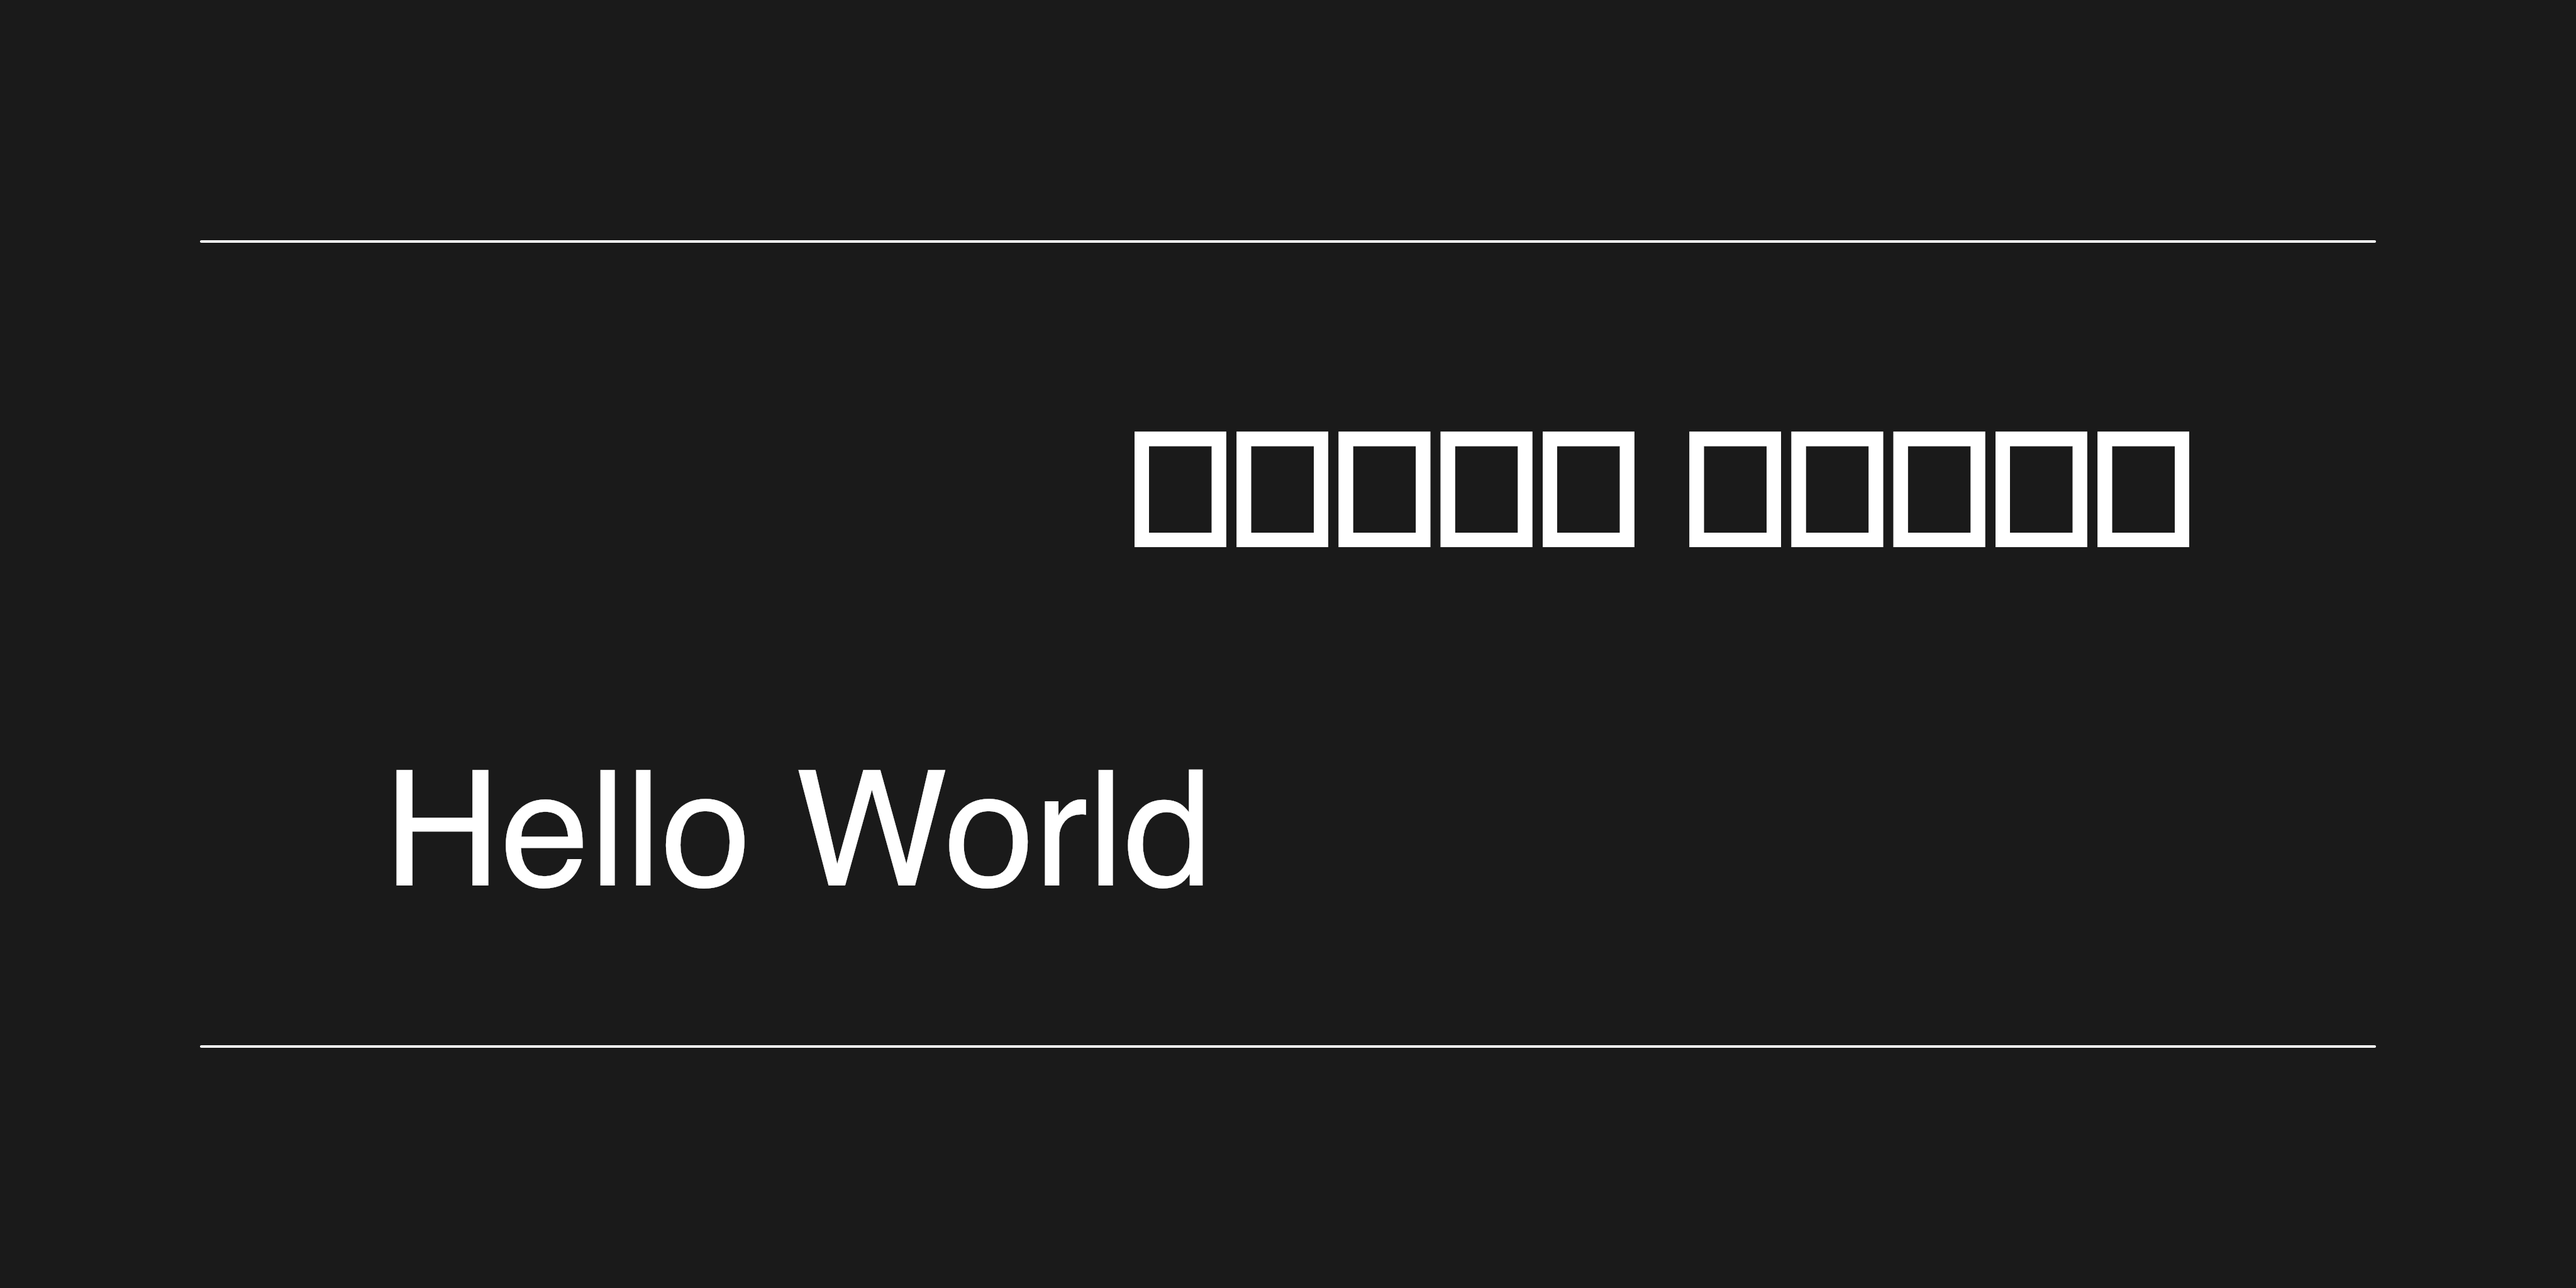
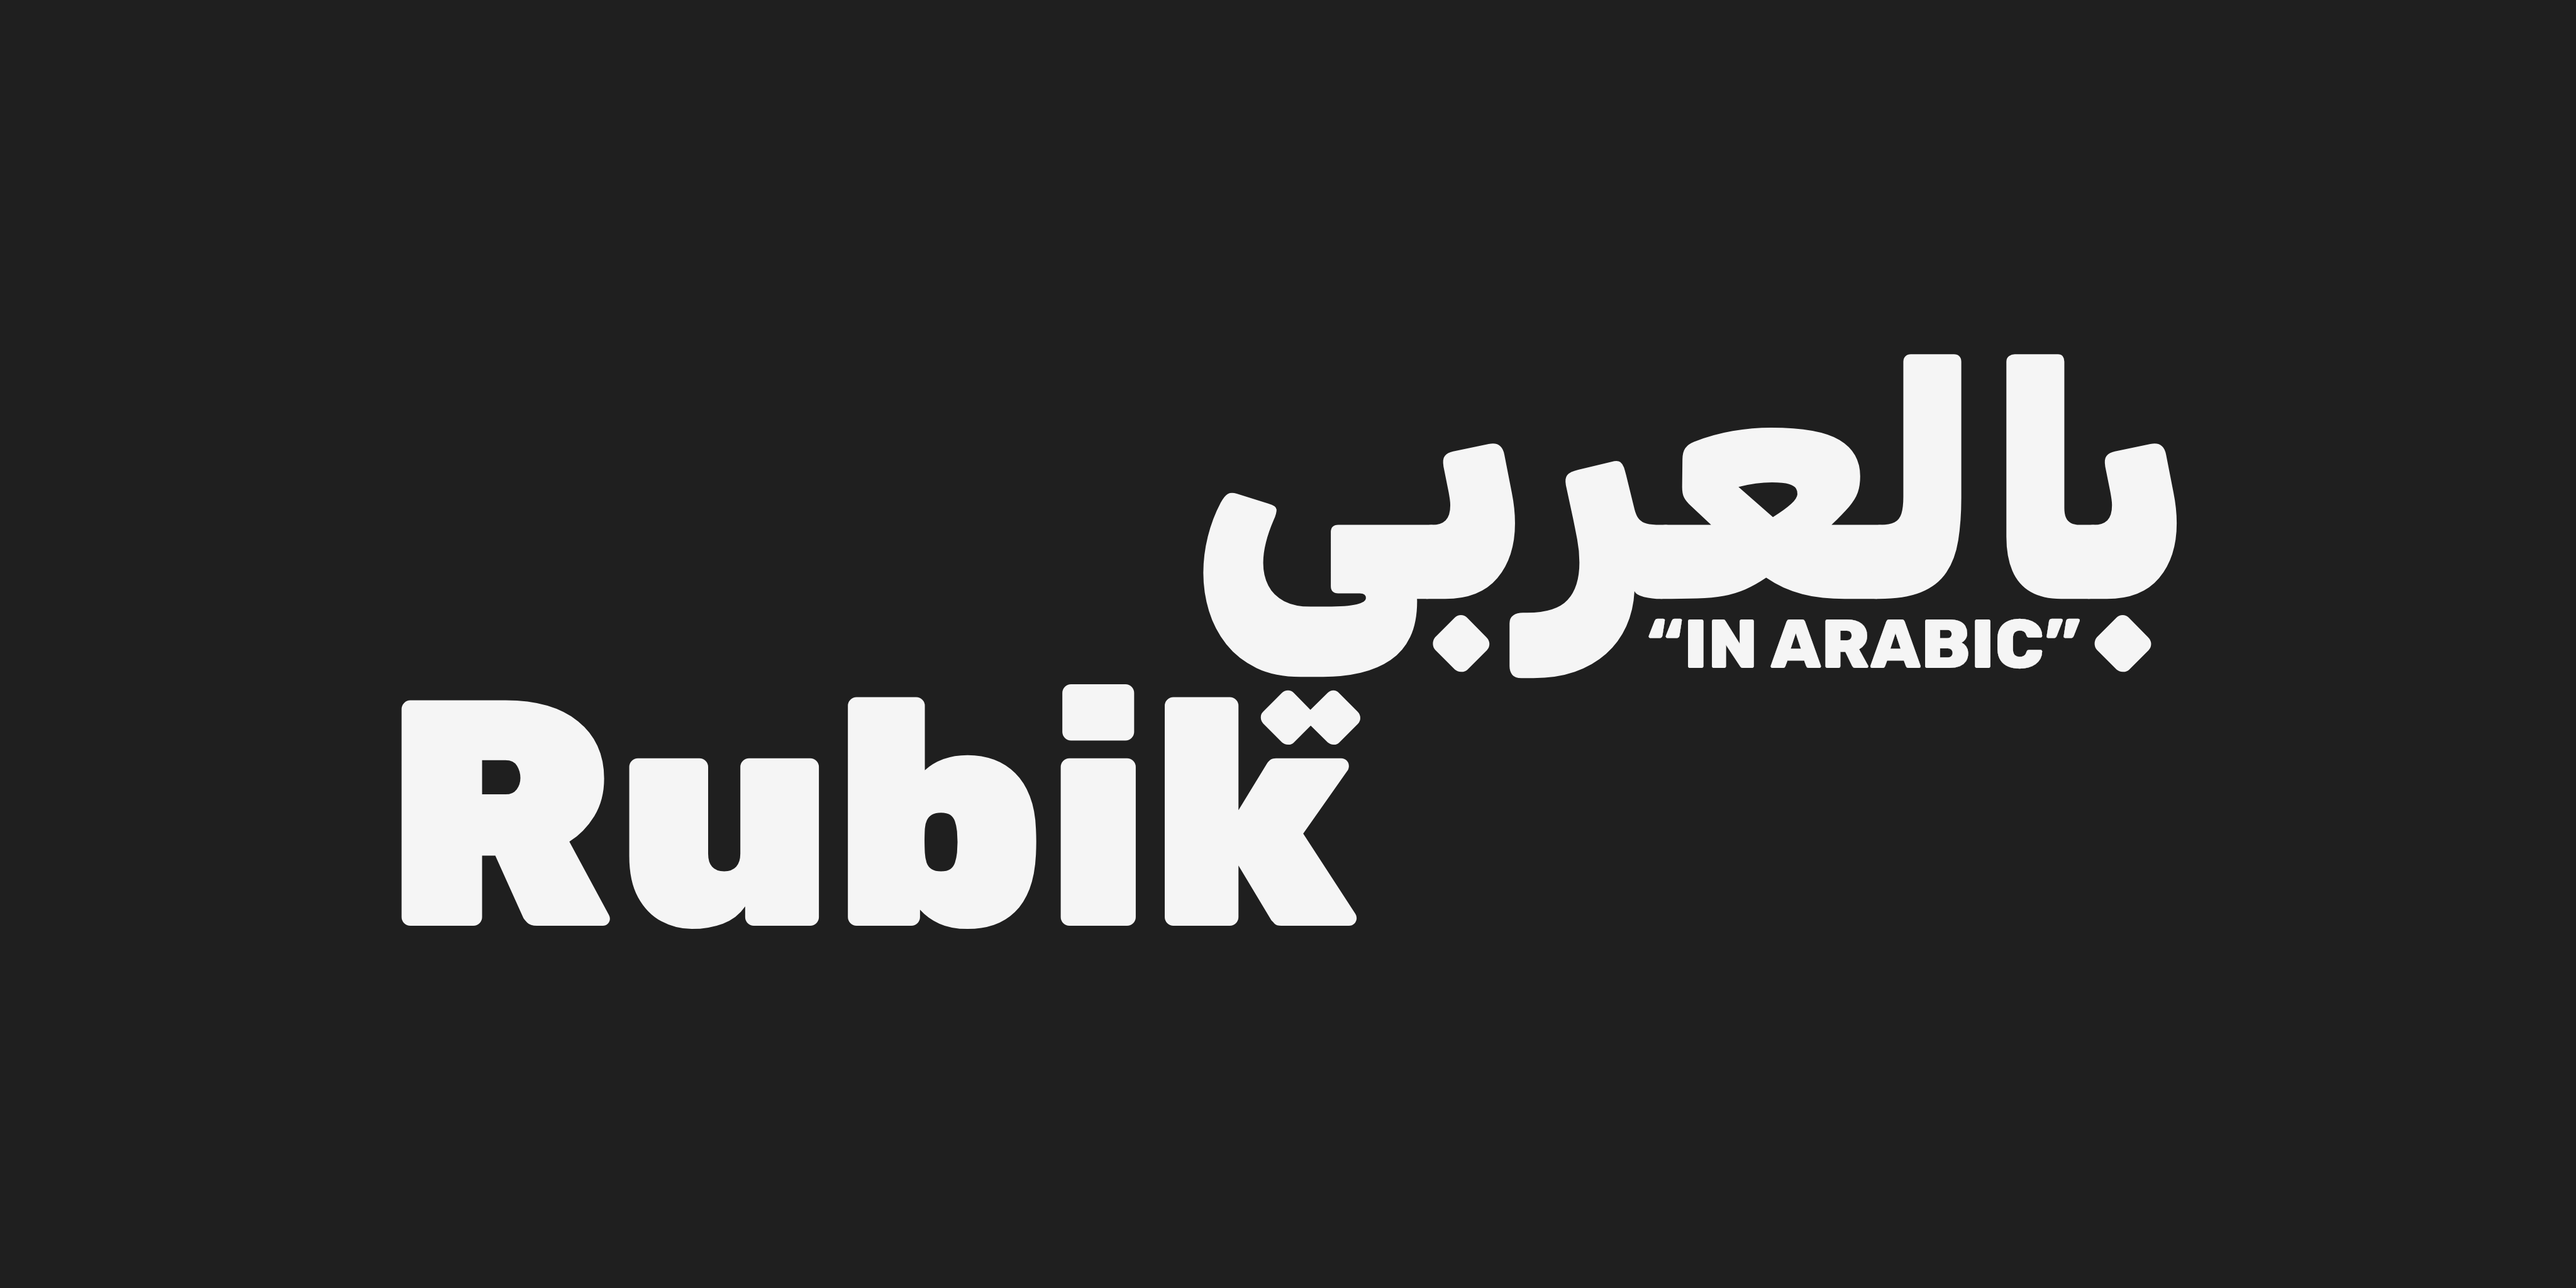
Update Rubik 001

Changed region(s): [[0.1562, 0.25, 0.875, 0.7188]]

diff --git a/documentation/rubik-001.py b/documentation/rubik-001.py
@@ -1,13 +1,9 @@
 # This script is meant to be run from the root level
 # of your font's git repository. For example, from a Unix terminal:
-# $ git clone my-font
-# $ cd my-font
-# $ python3 documentation/image1.py --output documentation/image1.png
+# $ python3 documentation/drawbot/image1.py --output documentation/drawbot/image1.png
 
 # Import moduels from external python packages: https://pypi.org/
 from drawbot_skia.drawbot import *
-from fontTools.ttLib import TTFont
-from fontTools.misc.fixedTools import floatToFixedToStr
 
 # Import moduels from the Python Standard Library: https://docs.python.org/3/library/
 import subprocess
@@ -15,16 +11,10 @@ import sys
 import argparse
 
 # Constants, these are the main "settings" for the image
-WIDTH, HEIGHT, MARGIN, FRAMES = 2048, 2048, 128, 1
-FONT_PATH = "fonts/ttf/Rubik-Regular.ttf"
-FONT_LICENSE = "OFL v1.1"
-AUXILIARY_FONT = "Helvetica"
-AUXILIARY_FONT_SIZE = 48
-BIG_TEXT = "Aa"
-BIG_TEXT_FONT_SIZE = 1024
-BIG_TEXT_SIDE_MARGIN = MARGIN * 3.1
-BIG_TEXT_BOTTOM_MARGIN = MARGIN * 5.5
-GRID_VIEW = False # Change this to "True" for a grid overlay
+WIDTH, HEIGHT, MARGIN, FRAMES = 4096, 2048, 256, 1
+FONT_PATH = "fonts/Rubik/Rubik-VariableFont_wght.ttf"
+AUXILIARY_FONT_PATH = None
+GRID_VIEW = False
 
 # Handel the "--output" flag
 # For example: $ python3 documentation/image1.py --output documentation/image1.png
@@ -32,21 +22,9 @@ parser = argparse.ArgumentParser()
 parser.add_argument("--output", metavar="PNG", help="where to write the PNG file")
 args = parser.parse_args()
 
-# Load the font with the parts of fonttools that are imported with the line:
-# from fontTools.ttLib import TTFont
-# Docs Link: https://fonttools.readthedocs.io/en/latest/ttLib/ttFont.html
-ttFont = TTFont(FONT_PATH)
-
-# Constants that are worked out dynamically
-MY_URL = subprocess.check_output("git remote get-url origin", shell=True).decode()
-MY_HASH = subprocess.check_output("git rev-parse --short HEAD", shell=True).decode()
-FONT_NAME = ttFont["name"].getDebugName(4)
-FONT_VERSION = "v%s" % floatToFixedToStr(ttFont["head"].fontRevision, 16)
-
-
 # Draws a grid
 def grid():
-    stroke(1, 0, 0, 0.75)
+    stroke(1, 0, 0, 1)
     strokeWidth(2)
     STEP_X, STEP_Y = 0, 0
     INCREMENT_X, INCREMENT_Y = MARGIN / 2, MARGIN / 2
@@ -60,7 +38,6 @@ def grid():
     polygon((WIDTH / 2, 0), (WIDTH / 2, HEIGHT))
     polygon((0, HEIGHT / 2), (WIDTH, HEIGHT / 2))
 
-
 # Remap input range to VF axis range
 # This is useful for animation
 # (E.g. sinewave(-1,1) to wght(100,900))
@@ -70,66 +47,55 @@ def remap(value, inputMin, inputMax, outputMin, outputMax):
     valueScaled = float(value - inputMin) / float(inputSpan)
     return outputMin + (valueScaled * outputSpan)
 
-
 # Draw the page/frame and a grid if "GRID_VIEW" is set to "True"
 def draw_background():
     newPage(WIDTH, HEIGHT)
-    fill(0)
+    fill(0.025)
+    fill(0.12)
     rect(-2, -2, WIDTH + 2, HEIGHT + 2)
     if GRID_VIEW:
         grid()
     else:
         pass
 
-
 # Draw main text
+#GRID_VIEW = True
 def draw_main_text():
-    fill(1)
+    fill(0.99)
+    fill(0.96)
     stroke(None)
     font(FONT_PATH)
-    fontSize(BIG_TEXT_FONT_SIZE)
+    # for axis, data in listFontVariations().items():
+    #     print((axis, data))
+    fontSize(512)
+    fontVariations(wght = 900)
     # Adjust this line to center main text manually.
     # TODO: This should be done automatically when drawbot-skia
     # has support for textBox() and FormattedString
-    #text(BIG_TEXT, ((WIDTH / 2) - MARGIN * 4.75, (HEIGHT / 2) - MARGIN * 2.5))
-    text(BIG_TEXT, (BIG_TEXT_SIDE_MARGIN, BIG_TEXT_BOTTOM_MARGIN))
 
+    text("Rubik", ((MARGIN-4)+MARGIN*1.4, MARGIN*2.25))
+    text("بالعربي", ((MARGIN*13.58), MARGIN*4.3))
+    fontSize(110)
+    #fontVariations(wght = 500)
+    #text("“IN ARABIC”", ((MARGIN*10.32), MARGIN*3.85))
+    fontVariations(wght = 800)
+    text("“IN ARABIC”", ((MARGIN*10.23), MARGIN*3.85))
 
 # Divider lines
 def draw_divider_lines():
     stroke(1)
     strokeWidth(4)
     lineCap("round")
-    line((MARGIN, HEIGHT - MARGIN), (WIDTH - MARGIN, HEIGHT - MARGIN))
-    line((MARGIN, MARGIN + (MARGIN / 2)), (WIDTH - MARGIN, MARGIN + (MARGIN / 2)))
+    line((MARGIN+64, HEIGHT - MARGIN*1.5), (WIDTH - MARGIN-64, HEIGHT - MARGIN*1.5))
+    line((MARGIN+64, MARGIN + (MARGIN / 2)), (WIDTH - MARGIN-64, MARGIN + (MARGIN / 2)))
     stroke(None)
-
-
-# Draw text describing the font and it's git status & repo URL
-def draw_auxiliary_text():
-    # Setup
-    font(AUXILIARY_FONT)
-    fontSize(AUXILIARY_FONT_SIZE)
-    POS_TOP_LEFT = (MARGIN, HEIGHT - MARGIN * 1.5)
-    POS_TOP_RIGHT = (WIDTH - MARGIN, HEIGHT - MARGIN * 1.5)
-    POS_BOTTOM_LEFT = (MARGIN, MARGIN)
-    POS_BOTTOM_RIGHT = (WIDTH - MARGIN * 0.95, MARGIN)
-    URL_AND_HASH = MY_URL + "at commit " + MY_HASH
-    URL_AND_HASH = URL_AND_HASH.replace("\n", " ")
-    # Draw Text
-    text(FONT_NAME, POS_TOP_LEFT, align="left")
-    text(FONT_VERSION, POS_TOP_RIGHT, align="right")
-    text(URL_AND_HASH, POS_BOTTOM_LEFT, align="left")
-    text(FONT_LICENSE, POS_BOTTOM_RIGHT, align="right")
-
 
 # Build and save the image
 if __name__ == "__main__":
     draw_background()
     draw_main_text()
-    draw_divider_lines()
-    draw_auxiliary_text()
+    #draw_divider_lines()
     # Save output, using the "--output" flag location
     saveImage(args.output)
-    # Print done in the terminal
-    print("DrawBot: Done")
+    current_file_name = __file__
+    print("DrawBot: Done building", current_file_name)

diff --git a/documentation/bricolage-001.py b/documentation/bricolage-001.py
@@ -1,0 +1,122 @@
+# This script is meant to be run from the root level
+# of your font's git repository. For example, from a Unix terminal:
+# $ python3 documentation/drawbot/image1.py --output documentation/drawbot/image1.png
+
+# Import moduels from external python packages: https://pypi.org/
+from drawbot_skia.drawbot import *
+
+# Import moduels from the Python Standard Library: https://docs.python.org/3/library/
+import subprocess
+import sys
+import argparse
+
+# Constants, these are the main "settings" for the image
+WIDTH, HEIGHT, MARGIN, FRAMES = 4096, 2048, 256, 1
+FONT_PATH = "fonts/Bricolage_Grotesque/BricolageGrotesque-VariableFont_opsz,wdth,wght.ttf"
+AUXILIARY_FONT_PATH = None
+GRID_VIEW = False
+
+# Handel the "--output" flag
+# For example: $ python3 documentation/image1.py --output documentation/image1.png
+parser = argparse.ArgumentParser()
+parser.add_argument("--output", metavar="PNG", help="where to write the PNG file")
+args = parser.parse_args()
+
+# Draws a grid
+def grid():
+    stroke(1, 0, 0, 0.75)
+    strokeWidth(2)
+    STEP_X, STEP_Y = 0, 0
+    INCREMENT_X, INCREMENT_Y = MARGIN / 2, MARGIN / 2
+    rect(MARGIN, MARGIN, WIDTH - (MARGIN * 2), HEIGHT - (MARGIN * 2))
+    for x in range(29):
+        polygon((MARGIN + STEP_X, MARGIN), (MARGIN + STEP_X, HEIGHT - MARGIN))
+        STEP_X += INCREMENT_X
+    for y in range(29):
+        polygon((MARGIN, MARGIN + STEP_Y), (WIDTH - MARGIN, MARGIN + STEP_Y))
+        STEP_Y += INCREMENT_Y
+    polygon((WIDTH / 2, 0), (WIDTH / 2, HEIGHT))
+    polygon((0, HEIGHT / 2), (WIDTH, HEIGHT / 2))
+
+
+# Draws a grid
+def graphicGrid():
+    fill(None)
+    stroke(0.99)
+    strokeWidth(4)
+    STEP_X, STEP_Y = 0, 0
+    INCREMENT_X, INCREMENT_Y = MARGIN / 2, MARGIN / 2
+    rect(MARGIN, MARGIN, WIDTH - (MARGIN * 2), HEIGHT - (MARGIN * 2))
+    for x in range(29):
+        polygon((MARGIN + STEP_X, MARGIN), (MARGIN + STEP_X, HEIGHT - MARGIN))
+        STEP_X += INCREMENT_X
+    for y in range(13):
+        polygon((MARGIN, MARGIN + STEP_Y), (WIDTH - MARGIN, MARGIN + STEP_Y))
+        STEP_Y += INCREMENT_Y
+    #polygon((WIDTH / 2, 0), (WIDTH / 2, HEIGHT))
+    #polygon((0, HEIGHT / 2), (WIDTH, HEIGHT / 2))
+
+# Remap input range to VF axis range
+# This is useful for animation
+# (E.g. sinewave(-1,1) to wght(100,900))
+def remap(value, inputMin, inputMax, outputMin, outputMax):
+    inputSpan = inputMax - inputMin  # FIND INPUT RANGE SPAN
+    outputSpan = outputMax - outputMin  # FIND OUTPUT RANGE SPAN
+    valueScaled = float(value - inputMin) / float(inputSpan)
+    return outputMin + (valueScaled * outputSpan)
+
+# Draw the page/frame and a grid if "GRID_VIEW" is set to "True"
+def draw_background():
+    newPage(WIDTH, HEIGHT)
+    fill(0.025)
+    # fill(1,0,0)
+    rect(-2, -2, WIDTH + 2, HEIGHT + 2)
+    if GRID_VIEW:
+        grid()
+    else:
+        pass
+
+# Draw main text
+#GRID_VIEW = True
+def draw_main_text():
+    fill(0.95)
+    stroke(None)
+    font(FONT_PATH)
+    for axis, data in listFontVariations().items():
+        print((axis, data))
+    fontSize(530)
+    fontVariations(wght = 900)
+    # Adjust this line to center main text manually.
+    # TODO: This should be done automatically when drawbot-skia
+    # has support for textBox() and FormattedString
+
+    #graphicGrid()
+    stroke(None)
+
+    step = 0
+    wght_step = 400
+    fill(1,0.2,0)
+    fill(0,0.25,1)
+    for i in range(9):
+        fontVariations(wdth = 100)
+        fontVariations(wght = wght_step)
+        text("Grotesque", (MARGIN*7.4, MARGIN*(step*1.5)))
+        step += 1
+        wght_step += 100
+
+    fill(0.975)
+    fontVariations(wdth = 75)
+    #text("Bricolage", (MARGIN*0.95, MARGIN*3.5))
+    fontSize(1180)
+    text("Bricolage", (MARGIN*0.90, MARGIN*2.5))
+
+
+# Build and save the image
+if __name__ == "__main__":
+    draw_background()
+    draw_main_text()
+    #draw_divider_lines()
+    # Save output, using the "--output" flag location
+    saveImage(args.output)
+    current_file_name = __file__
+    print("DrawBot: Done building", current_file_name)

diff --git a/README.md b/README.md
@@ -47,13 +47,13 @@ Unlike many open source distributors, Google Fonts is **curated**. Fonts shipped
 [GF Profile]: https://img.shields.io/endpoint?url=https%3A%2F%2Fraw.githubusercontent.com%2Feliheuer%2Fgf-specimen-images%2Fgh-pages%2Fbadges%2FGoogleFonts.json
 [Outline Correctness]: https://img.shields.io/endpoint?url=https%3A%2F%2Fraw.githubusercontent.com%2Feliheuer%2Fgf-specimen-images%2Fgh-pages%2Fbadges%2FOutlineCorrectnessChecks.json
 [Shaping]: https://img.shields.io/endpoint?url=https%3A%2F%2Fraw.githubusercontent.com%2Feliheuer%2Fgf-specimen-images%2Fgh-pages%2Fbadges%2FShapingChecks.json
-[Universal]: https://img.shields.io/endpoint?url=https%3A%2F%2Fraw.githubusercontent.com%2Feliheuer%2Fgf-specimen-images%2Fgh-pages%2Fbadges%2FUniversal.json
+[Universal]: https://img.shields.io/endpoint?url=https%3A%2F%2Fraw.githubusercontent.com%2Feliheuer%2Fgf-specimen-images%2Fgh-![](![]())pages%2Fbadges%2FUniversal.json
 
 Description of your font goes here. We recommend to start with a very short presentation line (the kind you would use on twitter to present your project for example), and then add as much details as necesary :-) Origin of the project, idea of usage, concept of creation… but also number of masters, axes, character sets, etc.
 
 Don't hesitate to create images!
 
-![Sample Image](documentation/image1.png)
+![Sample Image](documentation/rubik-001.png)
 
 ## About
 
